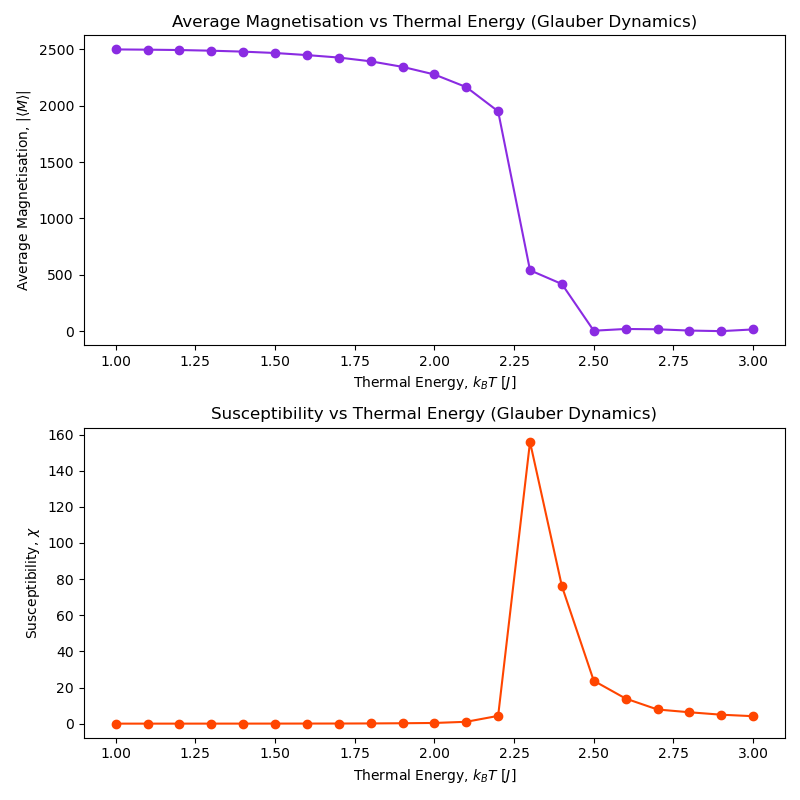
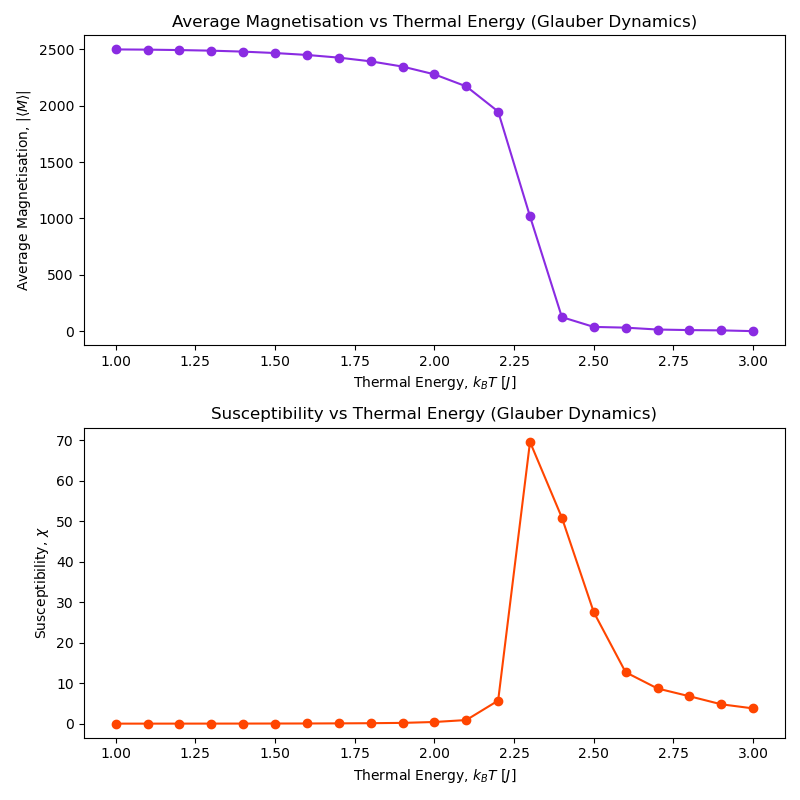
finalised some things

diff --git a/checkpoint 1/task456_collect.py b/checkpoint 1/task456_collect.py
@@ -65,5 +65,5 @@ def collect_task56(filepath, dynamics):
 
 
 if __name__ == "__main__":
-    filepath = "./task4_1.txt"
+    filepath = "./task4.txt"
     collect_task4(filepath)
